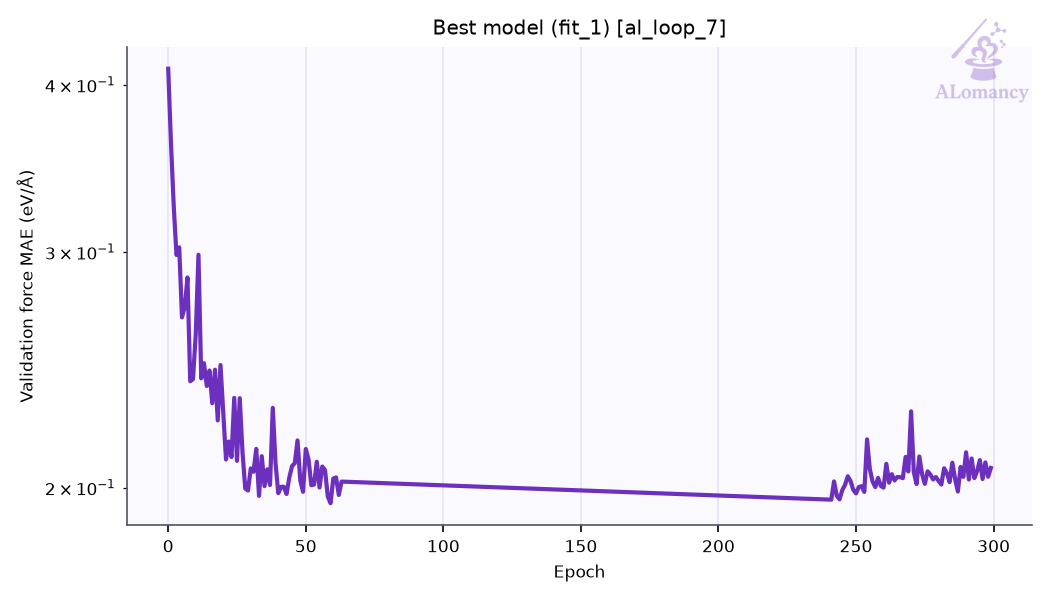
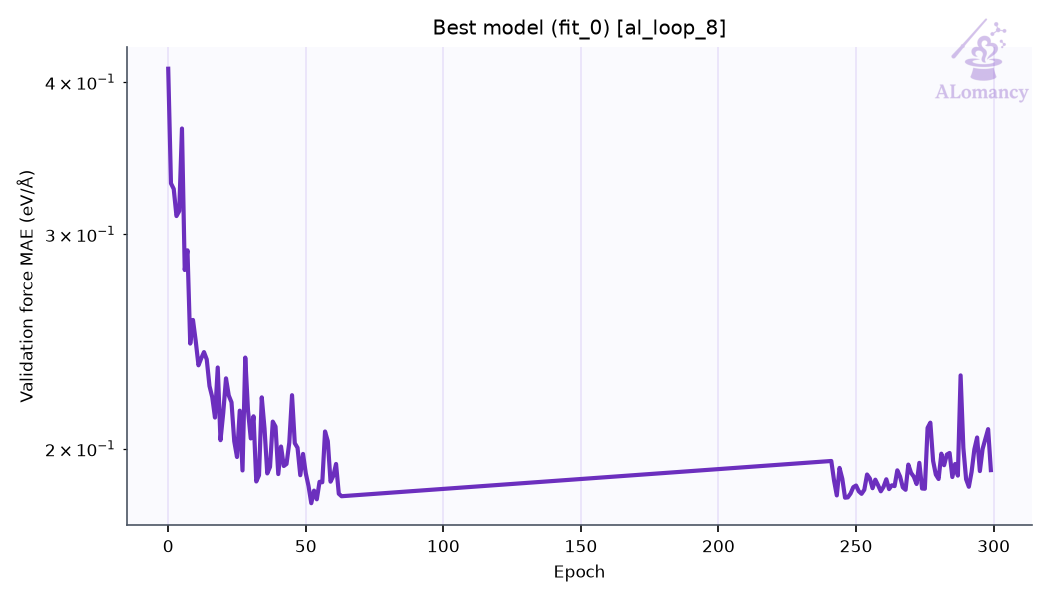
update good_c

diff --git a/alomancy/good_c/report/report.md b/alomancy/good_c/report/report.md
@@ -1,27 +1,27 @@
-# ALomancy report: al_loop_7
+# ALomancy report: al_loop_8
 
-Workflow `committee_uncertainty` · trainer `mace` · generator `md` · evaluator `qe` · generated 2026-11-11T04:26:45
+Workflow `committee_uncertainty` · trainer `mace` · generator `md` · evaluator `qe` · generated 2026-11-13T00:36:52
 
-**Status:** ✖ 2 errors · 💡 1 info · 71 warning(s) logged
+**Status:** ✖ 2 errors · 💡 1 info · 17 warning(s) logged
 
 ## Headline
 
-| | loop 6 | loop 7 | change |
+| | loop 7 | loop 8 | change |
 |---|---:|---:|---:|
-| Best model test force MAE (eV/Å) | 0.196 | 0.197 | +0% |
-| Best model test energy MAE (meV/atom) | 18.4 | 18.7 | +2% |
-| Training structures | 5.26e+03 | 5.31e+03 | +1% |
-| Test structures | 558 | 564 | +1% |
-| New structures this loop | 75 | 21 | -72% |
-| Warnings / errors logged | 12 | 71 | +492% |
+| Best model test force MAE (eV/Å) | 0.197 | 0.194 | -1% |
+| Best model test energy MAE (meV/atom) | 18.7 | 28.7 | +53% |
+| Training structures | 5.31e+03 | 5.44e+03 | +2% |
+| Test structures | 564 | 582 | +3% |
+| New structures this loop | 21 | 58 | +176% |
+| Warnings / errors logged | 71 | 17 | -76% |
 
-Best model: fit_1 of 3 (chosen on the `valid` split).
+Best model: fit_0 of 3 (chosen on the `valid` split).
 
 ## Issues & suggestions
 
-- ✖ **remote_jobs_failed**: 68/156 remote jobs (44%) failed (68) or died (0). Check the job logs (results/alomancy.log has each failure's traceback); jobs killed by the scheduler usually need a longer max_time for that phase, or a partition with more memory.
-- ✖ **dft_partial_failure**: 68/100 structures sent to DFT (68%) came back without a result. Check the DFT output in results/<loop>/high_accuracy_evaluation; raise high_accuracy_evaluation.max_time / max_go_time if jobs timed out.
-- 💡 **overfitting**: The best model's test force MAE (0.197 eV/Å) is 2.3x its training MAE (0.0849 eV/Å). The test set covers configurations training doesn't: keep adding data, or raise general.dataset_kwargs.valid_fraction to select models on held-out data.
+- ✖ **remote_jobs_failed**: 14/157 remote jobs (9%) failed (12) or died (2). Check the job logs (results/alomancy.log has each failure's traceback); jobs killed by the scheduler usually need a longer max_time for that phase, or a partition with more memory.
+- ✖ **dft_partial_failure**: 14/100 structures sent to DFT (14%) came back without a result. Check the DFT output in results/<loop>/high_accuracy_evaluation; raise high_accuracy_evaluation.max_time / max_go_time if jobs timed out.
+- 💡 **overfitting**: The best model's test force MAE (0.194 eV/Å) is 2.4x its training MAE (0.0799 eV/Å). The test set covers configurations training doesn't: keep adding data, or raise general.dataset_kwargs.valid_fraction to select models on held-out data.
 
 ## Trends
 
@@ -35,6 +35,7 @@ Best model: fit_1 of 3 (chosen on the `valid` split).
 | 5 | 0.198 | 5132 | 98 | 100/100 | 100% | 0 | 3 |
 | 6 | 0.196 | 5263 | 75 | 92/100 | 100% | 0 | 12 |
 | 7 | 0.197 | 5308 | 21 | 32/100 | 100% | 0 | 71 |
+| 8 | 0.194 | 5440 | 58 | 86/100 | 99% | 0 | 17 |
 
 ![Best-model MAE per loop](plots/training_al_loop_mae_plot.png)
 
@@ -44,7 +45,7 @@ Best model: fit_1 of 3 (chosen on the `valid` split).
 
 ![Best model parity](plots/best_model_parity.png)
 
-Median relative error: train energy 0.2%, force 8.9%; test energy 0.2%, force 18.1%.
+Median relative error: train energy 0.1%, force 8.5%; test energy 0.1%, force 17.5%.
 Energies with |formation energy| < 0.05 eV/atom and atoms with |F| < 0.1 eV/Å are left out; force error is |ΔF|/|F| per atom.
 
 ![Best model percentage error](plots/best_model_percent_error.png)
@@ -55,7 +56,7 @@ Energies with |formation energy| < 0.05 eV/atom and atoms with |F| < 0.1 eV/Å a
 |---|---:|---:|---:|---:|
 | CNa_dataset | 3538 | 392 | 662 | 4592 |
 | IsolatedAtom | 1 | 0 | 0 | 1 |
-| high_sd | 1450 | 168 | 130 | 1748 |
+| high_sd | 1582 | 186 | 152 | 1920 |
 | init_MP | 7 | 1 | 0 | 8 |
 | init_amorphous | 26 | 3 | 0 | 29 |
 | init_dimer | 99 | 0 | 0 | 99 |
@@ -64,11 +65,11 @@ Energies with |formation energy| < 0.05 eV/atom and atoms with |F| < 0.1 eV/Å a
 | init_trimer | 50 | 0 | 0 | 50 |
 | on_hull | 1 | 0 | 0 | 1 |
 | on_hull_expansion | 11 | 0 | 9 | 20 |
-| **all** | **5308** | **564** | **1218** | **7090** |
+| **all** | **5440** | **582** | **1240** | **7262** |
 
-- Redundancy removal: 0 structure(s) flagged in total, 0 of this loop's 21 new.
-- DFT geometry-optimisation starting frames: 43 stored this loop, 30 used (the rest excluded by the train/test filters or redundancy removal).
-- Quality filters: high_force: 1209, formation_energy: 21.
+- Redundancy removal: 0 structure(s) flagged in total, 0 of this loop's 58 new.
+- DFT geometry-optimisation starting frames: 114 stored this loop, 92 used (the rest excluded by the train/test filters or redundancy removal).
+- Quality filters: high_force: 1231, formation_energy: 21.
 
 ![Training set composition](plots/training_set_composition.png)
 
@@ -76,17 +77,17 @@ Energies with |formation energy| < 0.05 eV/atom and atoms with |F| < 0.1 eV/Å a
 
 Redundancy removal flags near-duplicate training structures, so the model isn't trained on many copies of the same geometry. Each structure is described by `char_vec_128`: all of its interatomic distances, sorted and resampled to 128 values (`global_descriptor/atomic_distance_descriptor.make_char_vec`). Two structures count as duplicates when the Euclidean distance between their descriptors is below a tolerance: in database order, each structure still in the training set is kept unless it is within the tolerance of one already kept. The plot sweeps that tolerance and counts how many structures are kept at each value. **We are looking for plateaus** (shaded): ranges where the count doesn't change, so the result doesn't depend on the exact tolerance. The orange line (right axis) is the number of structures removed between consecutive tolerance steps, the gradient of the count: zero on a plateau. The start of the lowest plateau at least `general.redundancy_kwargs.min_plateau_width` of the swept range wide is used (dashed line). Nothing is flagged when no plateau qualifies, or when it would flag more than `max_flagged_fraction` of the structures; `general.redundancy_kwargs.tolerance` sets the tolerance directly.
 
-- This loop: 5,021 structures probed; the lowest plateau would flag more than 50% of them, so nothing was flagged.
+- This loop: 5,153 structures probed; the lowest plateau would flag more than 50% of them, so nothing was flagged.
 
 ![Redundancy tolerance probe](plots/redundancy_tolerance_probe.png)
 
 ## DFT
 
-- Structures: 32 returned of 100 submitted (32 relaxed, 0 single point).
-- Geometry optimisation: 32/32 reached the force ceiling (0.05 eV/Å); steps mean 6.3, median 5, max 26 of 200 allowed.
-- Average DFT time per relaxation: 145.1 min (median 10.7, max 655.4; 32 structures).
-- Largest per-atom force after DFT: median 0.02, max 0.04 eV/Å.
-- DFT phase wall-clock: 11.1 h (mean queue time 5 min).
+- Structures: 86 returned of 100 submitted (86 relaxed, 0 single point).
+- Geometry optimisation: 85/86 reached the force ceiling (0.05 eV/Å); steps mean 28.3, median 26, max 200 of 200 allowed.
+- Average DFT time per relaxation: 167.3 min (median 126.0, max 861.7; 86 structures).
+- Largest per-atom force after DFT: median 0.04, max 0.31 eV/Å.
+- DFT phase wall-clock: 33.2 h (mean queue time 770 min).
 
 **Structures evaluated with DFT this loop (final geometries)**
 
@@ -94,14 +95,14 @@ Redundancy removal flags near-duplicate training structures, so the model isn't 
 
 ## MLIP training: mace
 
-- Best fit (fit_1) trained for 299 epochs, stage two from epoch 240; weights kept from epoch 297.
+- Best fit (fit_0) trained for 299 epochs, stage two from epoch 240; weights kept from epoch 295.
 
 ![Best model training curve](plots/best_model_training_curve.png)
 
 ## Structure generation: MD
 
 - Runs: 50 (50 completed, 0 seed(s) replaced)
-- Frames: 10000 recorded, 8334 physical (no bond < 0.5 Å, volume ≤ 3 x the seed's; 1616 frame(s) cut after a run expanded past it, seed frames left out), 1000 picked as candidates, spread over each run
+- Frames: 10000 recorded, 9075 physical (no bond < 0.5 Å, volume ≤ 3 x the seed's; 875 frame(s) cut after a run expanded past it, seed frames left out), 1000 picked as candidates, spread over each run
 - Ensemble npt, T = 500 K, timestep 0.2 fs
 
 ![MD frames per run](plots/md_frames_per_run.png)
@@ -116,7 +117,7 @@ Redundancy removal flags near-duplicate training structures, so the model isn't 
 
 ## Selection: committee uncertainty
 
-- 985 candidates scored; 100 selected (10 %; max force std dev ≥ 1.83 eV/Å).
+- 986 candidates scored; 100 selected (10 %; max force std dev ≥ 0.35 eV/Å).
 
 ![Committee force std dev](plots/committee_force_std_dev.png)
 
@@ -126,8 +127,9 @@ Redundancy removal flags near-duplicate training structures, so the model isn't 
 |---|---|---:|
 | `blown_up_excluded` | blown-up cells kept from DFT (volume >> vdW volume) | 1 |
 | `dft_summary` | DFT batch summary | 1 |
-| `job_failed` | remote job failed | 68 |
-| `jobs_started` | remote jobs started | 4 |
+| `job_died` | remote job died (killed / lost) | 2 |
+| `job_failed` | remote job failed | 12 |
+| `jobs_started` | remote jobs started | 5 |
 | `md_summary` | MD summary | 1 |
 | `md_volume_expanded` | MD runs cut after expanding past max_volume_ratio | 1 |
 | `quality_filtered` | train/test quality filter passes | 2 |
